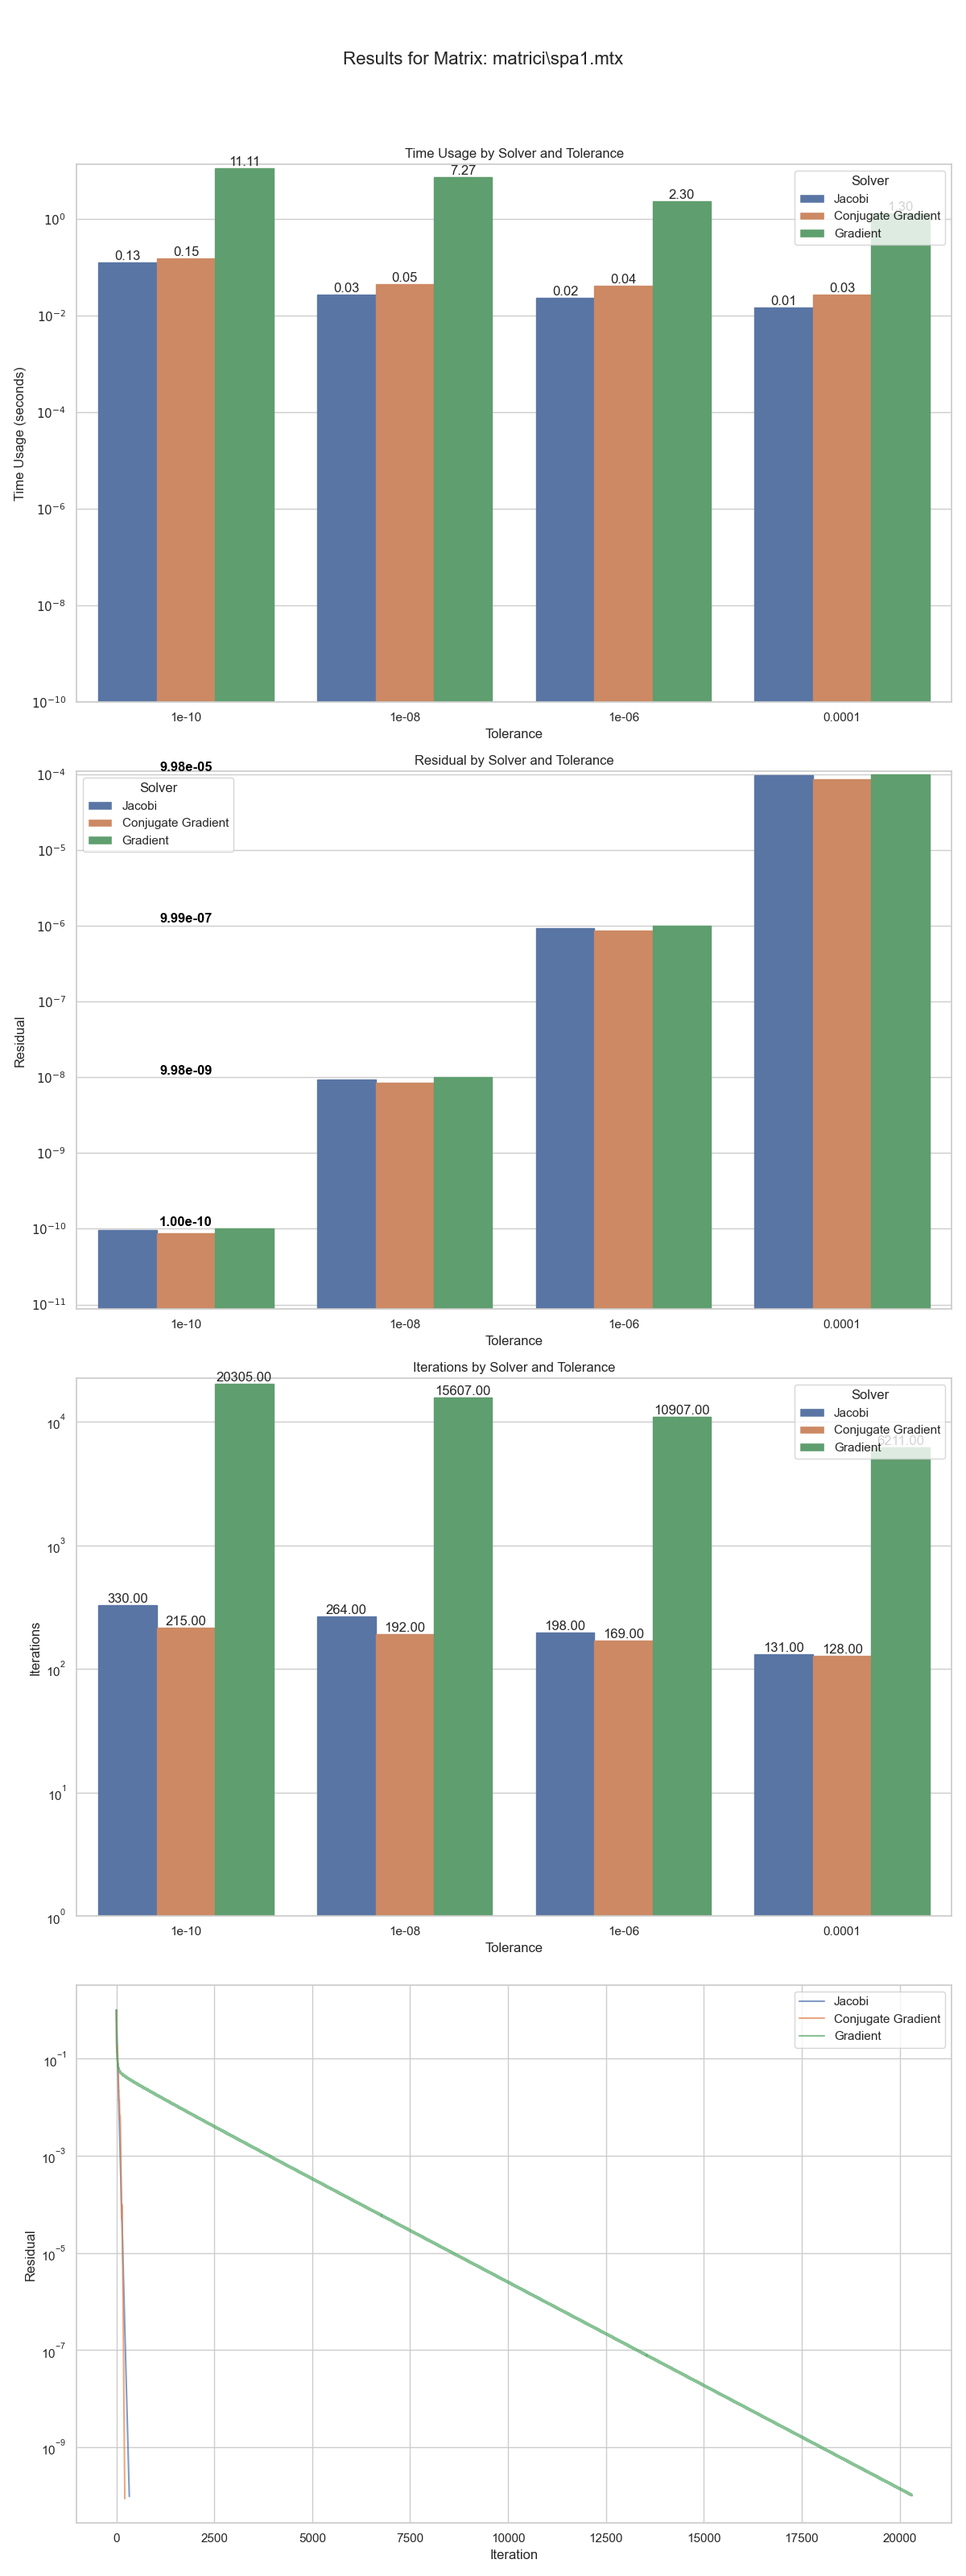
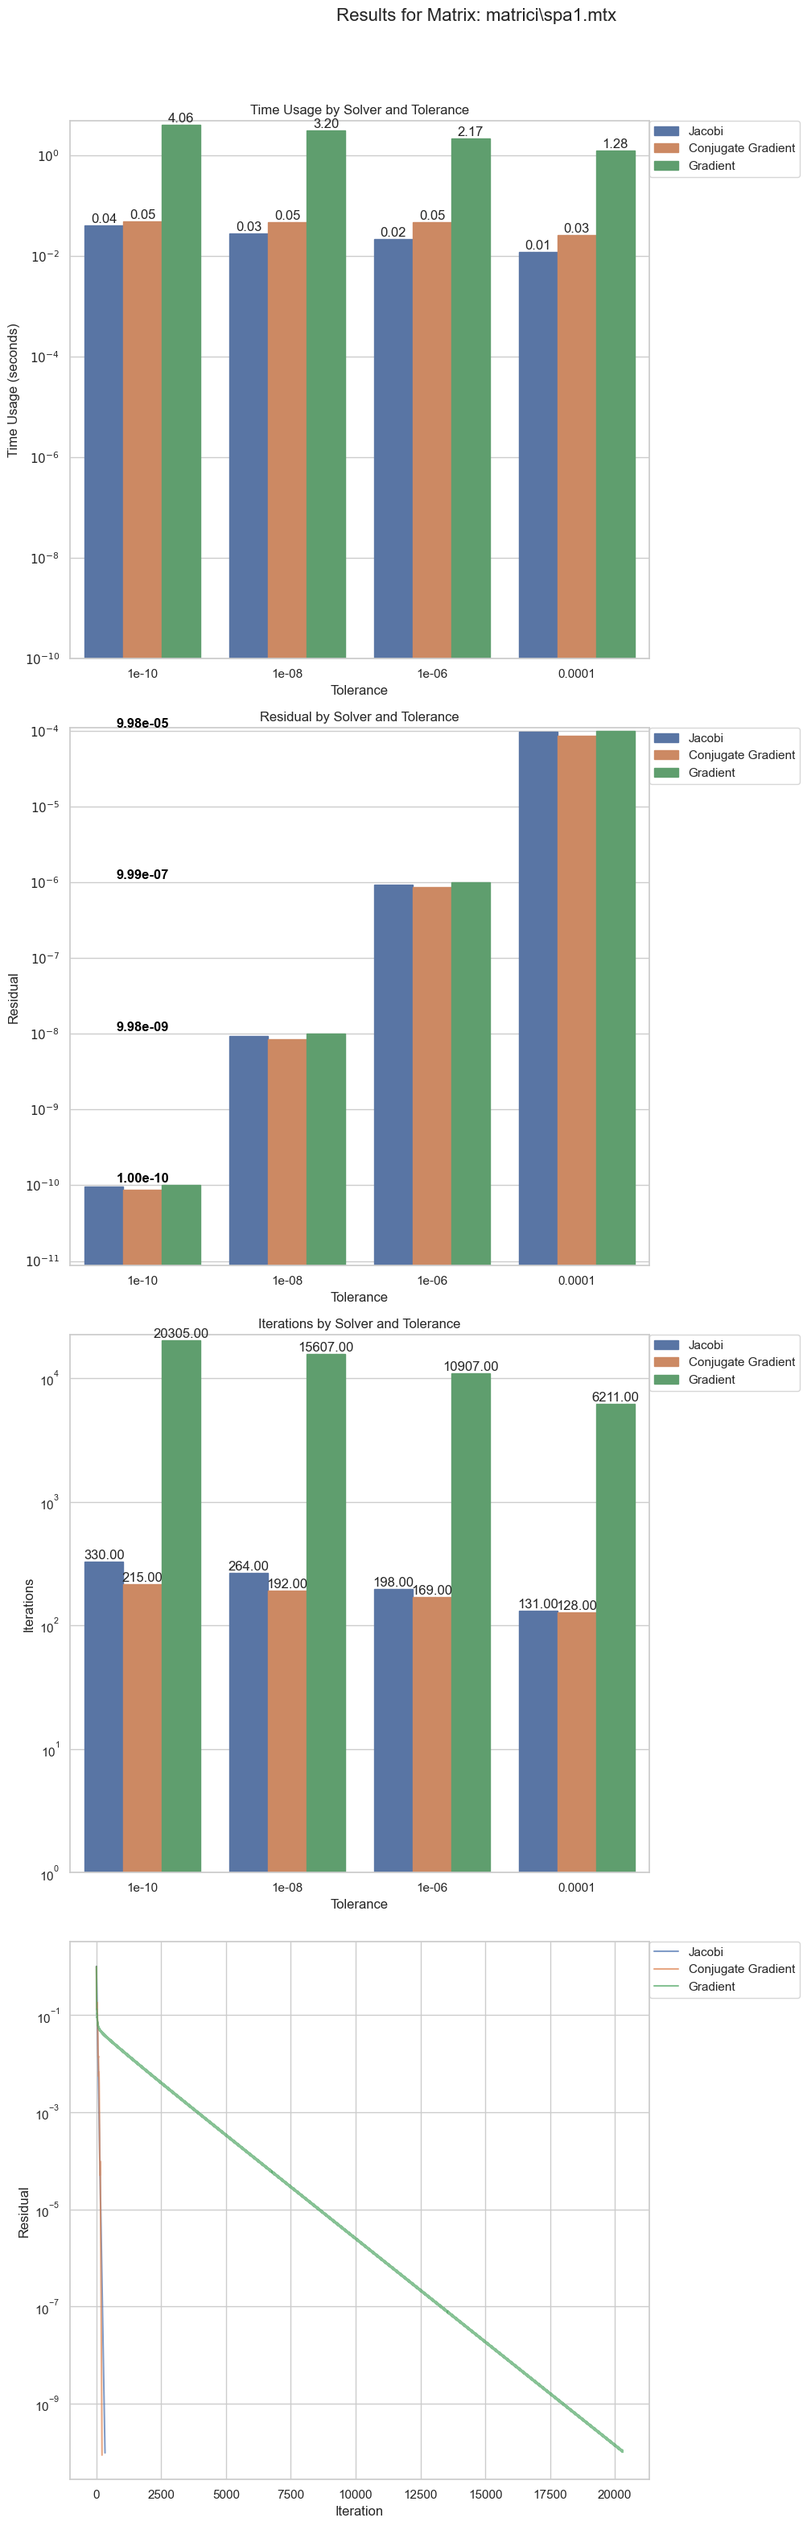
changed legend position

diff --git a/solver_runner.py b/solver_runner.py
@@ -122,6 +122,9 @@ def plot_results(df):
         for patch in barplot.patches:
             patch.set_edgecolor(patch.get_facecolor())
 
+        # Position the legend outside the plot
+        axs[0].legend(loc='upper left', bbox_to_anchor=(1, 1), borderaxespad=0.)
+
         # Plot residual
         max_residual = matrix_df['Residual'].max()
         min_residual = matrix_df['Residual'].min()
@@ -146,6 +149,9 @@ def plot_results(df):
         for patch in barplot.patches:
             patch.set_edgecolor(patch.get_facecolor())
 
+        # Position the legend outside the plot
+        axs[1].legend(loc='upper left', bbox_to_anchor=(1, 1), borderaxespad=0.)
+
         # Plot iterations
         max_iterations = matrix_df['Iterations'].max()
         barplot = sns.barplot(x='Tolerance', y='Iterations', hue='Solver', data=matrix_df, ax=axs[2])
@@ -162,6 +168,9 @@ def plot_results(df):
         for patch in barplot.patches:
             patch.set_edgecolor(patch.get_facecolor())
 
+        # Position the legend outside the plot
+        axs[2].legend(loc='upper left', bbox_to_anchor=(1, 1), borderaxespad=0.)
+
         # Plot residual progression for specific tolerance
         tolerance_df = matrix_df[matrix_df['Tolerance'] == 1e-10]
 
@@ -175,14 +184,16 @@ def plot_results(df):
             axs[3].set_ylabel('Residual')
             axs[3].set_xlabel('Iteration')
             axs[3].set_yscale('log')
-            axs[3].legend(loc='upper right')
+            # Position the legend outside the plot
+            axs[3].legend(loc='upper left', bbox_to_anchor=(1, 1), borderaxespad=0.)
 
-        plt.tight_layout(rect=[0, 0, 1, 0.96])
+        plt.tight_layout(rect=[0, 0, 0.85, 0.96])  # Adjust rect to give space for the legend outside
 
         # Save the plot
         plot_path = os.path.join(RESULTS_DIR, f'{os.path.basename(matrix)}_results.png')
-        plt.savefig(plot_path)
+        plt.savefig(plot_path, bbox_inches='tight')  # Save figure with adjusted bbox
         plt.close(fig)
+
 
 if __name__ == "__main__":
     results = run_matrix_solvers()
